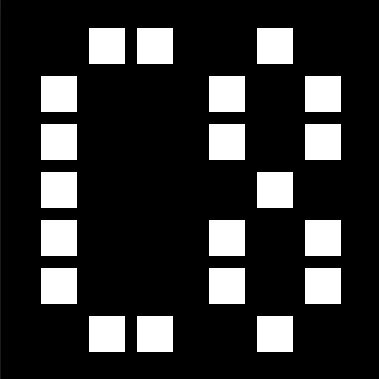
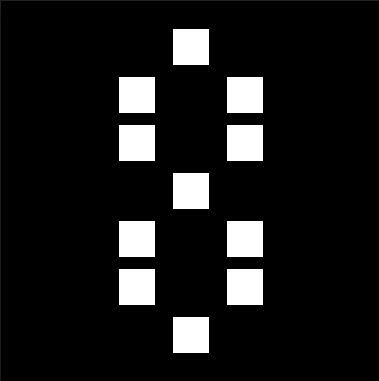
Update styles.css

diff --git a/styles.css b/styles.css
@@ -13,6 +13,8 @@
     --vid: #c7c7c2;
     --border: #a7a7a2;
     --text: #1d1d1d;
+    --button-dark: #101010;
+    --button-shadow: #050505;
 }
 
 body {
@@ -31,6 +33,8 @@ body.theme-plum {
     --vid: #261f18;
     --border: #4a3b2c;
     --text: #f5b041;
+    --button-dark: #101010;
+    --button-shadow: #050505;
 }
 
 body.theme-slate {
@@ -38,6 +42,8 @@ body.theme-slate {
     --vid: #162016;
     --border: #2e4a2e;
     --text: #76d7c4;
+    --button-dark: #101010;
+    --button-shadow: #050505;
 }
 
 /* Header */
@@ -52,7 +58,7 @@ header {
 
 header h1 {
     font-size: 1rem;
-    font-weight: 550;
+    font-weight: 500;
     letter-spacing: .15em;
     text-transform: uppercase;
 }
@@ -107,6 +113,7 @@ header h1 {
     font-size: 1.2rem;
     cursor: pointer;
     color: var(--text);
+    transition: opacity .12s, transform .05s;
 }
 
 #config-btn {
@@ -115,6 +122,16 @@ header h1 {
 
 #debug-btn {
     right: 14px;
+}
+
+#config-btn:hover,
+#debug-btn:hover {
+    opacity: .7;
+}
+
+#config-btn:active,
+#debug-btn:active {
+    transform: translateY(1px);
 }
 
 /* Layout */
@@ -130,6 +147,7 @@ header h1 {
 
 .video {
     flex: 1;
+    min-height: 0;
     display: flex;
     align-items: center;
     justify-content: center;
@@ -199,9 +217,15 @@ canvas {
 #reset-rom,
 #pause-rom {
     border-bottom: 1px solid var(--border);
-    transition: transform .05s, filter .08s;
+    transition: transform .05s, filter .08s, background .12s;
     box-shadow:
         0 1px 2px rgba(0, 0, 0, 0.08);
+}
+
+.upload span:hover,
+#reset-rom:hover,
+#pause-rom:hover {
+    filter: brightness(.97);
 }
 
 .upload span:active,
@@ -209,11 +233,6 @@ canvas {
 #pause-rom:active {
     transform: translateY(1px);
     filter: brightness(.95);
-}
-
-.controls {
-    display: flex;
-    flex-direction: column;
 }
 
 .speed-control {
@@ -254,8 +273,9 @@ canvas {
     width: 14px;
     height: 14px;
     border-radius: 50%;
-    background: #1d1d1d;
+    background: var(--text);
     cursor: pointer;
+    box-shadow: 0 1px 2px rgba(0,0,0,.18);
 }
 
 .speed-control input[type="range"]::-moz-range-thumb {
@@ -263,8 +283,9 @@ canvas {
     height: 14px;
     border: none;
     border-radius: 50%;
-    background: #1d1d1d;
+    background: var(--text);
     cursor: pointer;
+    box-shadow: 0 1px 2px rgba(0,0,0,.18);
 }
 
 /* Mobile keypad */
@@ -358,6 +379,7 @@ canvas {
     z-index: 100;
     align-items: center;
     justify-content: center;
+    padding: 12px;
 }
 
 #config-overlay.active,
@@ -368,6 +390,8 @@ canvas {
 .config-panel {
     width: 90%;
     max-width: 360px;
+    max-height: 90dvh;
+    overflow-y: auto;
     background: var(--bg);
     border: 1px solid var(--border);
     box-shadow:
@@ -399,6 +423,7 @@ canvas {
 .config-panel input[type="checkbox"] {
     width: 18px;
     height: 18px;
+    accent-color: var(--text);
 }
 
 #close-config,
@@ -406,14 +431,26 @@ canvas {
     margin-top: 20px;
     width: 100%;
     height: 40px;
-    background: #101010;
+    background: var(--button-dark);
     color: white;
     border: none;
     font-family: inherit;
     box-shadow:
-        0 2px 0 #050505,
+        0 2px 0 var(--button-shadow),
         0 4px 8px rgba(0, 0, 0, .12);
     transition: transform .05s, filter .08s;
+    cursor: pointer;
+}
+
+#close-config:hover,
+#close-debug:hover {
+    filter: brightness(1.15);
+}
+
+#close-config:active,
+#close-debug:active {
+    transform: translateY(1px);
+    filter: brightness(.95);
 }
 
 /* Debug */
@@ -489,6 +526,15 @@ footer a {
 
 footer a:hover {
     opacity: .7;
+}
+
+/* Focus */
+
+button:focus-visible,
+input:focus-visible,
+a:focus-visible {
+    outline: 2px solid var(--text);
+    outline-offset: 2px;
 }
 
 /* Mobile */
